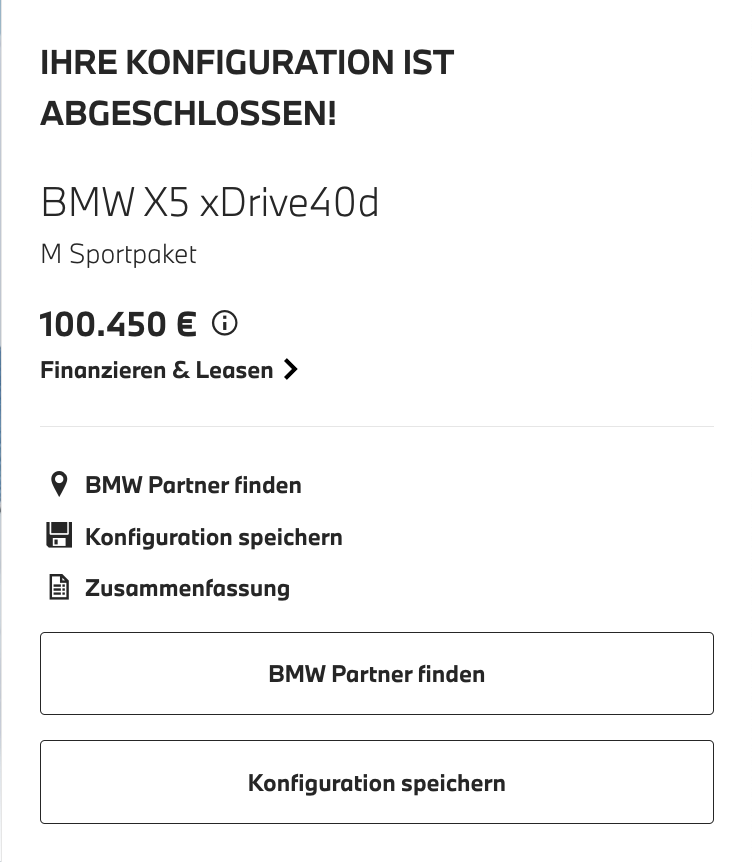
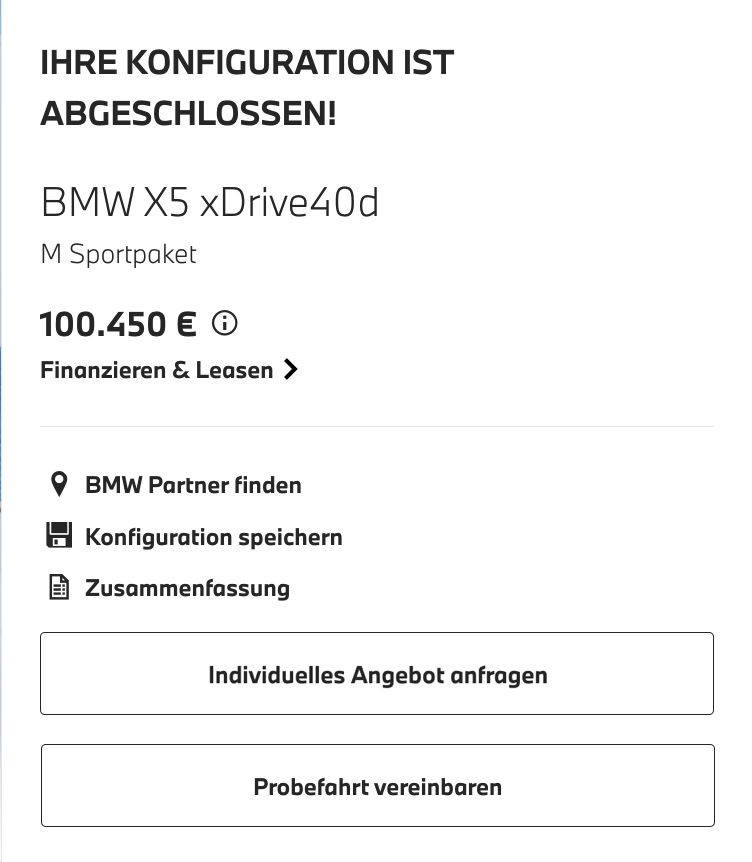
fix: some more changes

Changed region(s): [[0.2753, 0.7541, 0.734, 0.8144], [0.3364, 0.9049, 0.6729, 0.935]]

diff --git a/updateDataLayer.js b/updateDataLayer.js
@@ -82,6 +82,7 @@ function getFormUserObj() {
         "userModel": !model ? null : model.value === '' ? "BMW X5 xDrive40d" : model?.value,
         "userTestdriveDate": !testdriveDate ? null : testdriveDate.value,
         "userPlanedPurchase": !planedPurchase ? null : planedPurchase.value,
+        "userCarConfig": getCarObj()
     }
     return user
 }
@@ -105,7 +106,7 @@ function registerForm() {
 
         //get value from form fields
         user = getFormUserObj()
-        const { userSalutation, userGender, userFirstName, userLastName, userEmail, userChannelPreferences } = user
+        const { userSalutation, userGender, userFirstName, userLastName, userEmail, userChannelPreferences, userCarConfig } = user
 
         if (userFirstName == "" || userLastName == "" || ValidateEmail(userEmail) === false) {
             alert("Please enter: Firstname, Lastname and valid email");
@@ -120,7 +121,8 @@ function registerForm() {
                     "userFirstName": userFirstName,
                     "userLastName": userLastName,
                     "userEmail": userEmail,
-                    "userChannelPreferences": userChannelPreferences
+                    "userChannelPreferences": userChannelPreferences,
+                    userCarConfig
                 }
             }
             adobeDataLayer.push(Object.assign(trackRegisterObj));
@@ -197,7 +199,7 @@ function requestOfferForm() {
 
         //get value from form fields
         user = getFormUserObj()
-        const { userSalutation, userFirstName, userLastName, userEmail, userChannelPreferences, userZipCode, userCity, userStreet, userTelephone, userSeries, userModel, userPlanedPurchase } = user
+        const { userSalutation, userFirstName, userLastName, userEmail, userChannelPreferences, userZipCode, userCity, userStreet, userTelephone, userSeries, userModel, userPlanedPurchase, userCarConfig } = user
 
 
         if (userFirstName == "" || userLastName == "" || ValidateEmail(userEmail) === false) {
@@ -220,7 +222,8 @@ function requestOfferForm() {
                     "userTelephone": userTelephone,
                     "userEmail": userEmail,
                     "userPlanedPurchase": userPlanedPurchase,
-                    "userChannelPreferences": userChannelPreferences
+                    "userChannelPreferences": userChannelPreferences,
+                    userCarConfig
                 }
             }
 
@@ -261,7 +264,7 @@ function requestTestdriveForm() {
 
         //get value from form fields
         user = getFormUserObj()
-        const { userSalutation, userFirstName, userLastName, userEmail, userChannelPreferences, userZipCode, userCity, userStreet, userTelephone, userSeries, userModel, userPlanedPurchase, userTestdriveDate } = user
+        const { userSalutation, userFirstName, userLastName, userEmail, userChannelPreferences, userZipCode, userCity, userStreet, userTelephone, userSeries, userModel, userPlanedPurchase, userTestdriveDate, userCarConfig } = user
 
 
         if (userFirstName == "" || userLastName == "" || ValidateEmail(userEmail) === false || userTestdriveDate == "") {
@@ -285,7 +288,8 @@ function requestTestdriveForm() {
                     "userTelephone": userTelephone,
                     "userEmail": userEmail,
                     "userPlanedPurchase": userPlanedPurchase,
-                    "userChannelPreferences": userChannelPreferences
+                    "userChannelPreferences": userChannelPreferences,
+                    userCarConfig
                 }
             }
 
@@ -318,6 +322,12 @@ function requestTestdriveForm() {
 //utilities
 //redirect with url hash
 //takes default redirect as string (without html)
+
+function getCarObj() {
+    const carConfig = JSON.parse(localStorage.getItem('carConfig'));
+    return carConfig
+}
+
 function redirectHash(r) {
     const url = window.location.hash
     const redirect = !url ? r + '.html' : url.split('/')[1] + '.html#/' + url.split('/')[2]

diff --git a/configurator-page.html b/configurator-page.html
@@ -49,9 +49,10 @@
   
 
     <div class="configurator">
-      <div class="top-nav">
+      <div class="topnav">
         <img src="configurator_files/configurator-top-nav.png" width="100%"/>
         <a href="home.html"><div class="link" style="right: 2%; top: 13%; width: 5%; height: 70%;"></div></a>
+        <a href="login.html"><div class="link" style="right: 10.5%; bottom: 30%; width: 2.5%; height: 40%;"></div></a>
       </div>
       <div class="body" id="body">
         <img src=""  width="100%"/>
@@ -78,7 +79,6 @@
         </div>
         <div class="config__start config__start__summary" id="summary">
             <img src="" style="width: 100%; height: auto;" />
-          
             <a href="login.html"><div class="link" style="left: 7%; bottom: 36%; width: 86%; height: 5%;"></div></a>
             <a href="angebot-anfordern.html"><div class="link" style="left: 7%; bottom: 17.5%; width: 86%; height: 8%;"></div></a>
             <a href="testdrive-request.html"><div class="link" style="left: 7%; bottom: 6%; width: 86%; height: 8%;"></div></a>

diff --git a/testdrive-request.html b/testdrive-request.html
@@ -687,8 +687,7 @@
                               </div>
                             </div>
                             <div class="buttons-container" data-v-4e203ef4=""><button type="submit"
-                                class="custom-button __b primary" data-v-19f24c00="" data-v-4e203ef4="">Angebot
-                                anfordern</button></div>
+                                class="custom-button __b primary" data-v-19f24c00="" data-v-4e203ef4="">Probefahrt vereinbaren</button></div>
                           </div>
                         </form>
                       </main>

diff --git a/registration-success.html b/registration-success.html
@@ -42,7 +42,7 @@
     }
   </script>
     <script src="updateDataLayer.js"></script>
-  <a href="login.html#/configurator-page">
+  <a href="login.html#/configurator-page/0">
     <img src="registration-success.png" alt="Registration Success Page" width="100%" height="100%">
   </a>
   </img>

diff --git a/test-drive-confirmation-page.html b/test-drive-confirmation-page.html
@@ -42,7 +42,7 @@
     }
   </script>
     <script src="updateDataLayer.js"></script>
-    <a href="/home.html">
+    <a href="home.html">
       <img src="test-drive-confirmation.png" alt="Test Drive Confirmation Page" width="100%" height="100%">
     </a>
   </img>
